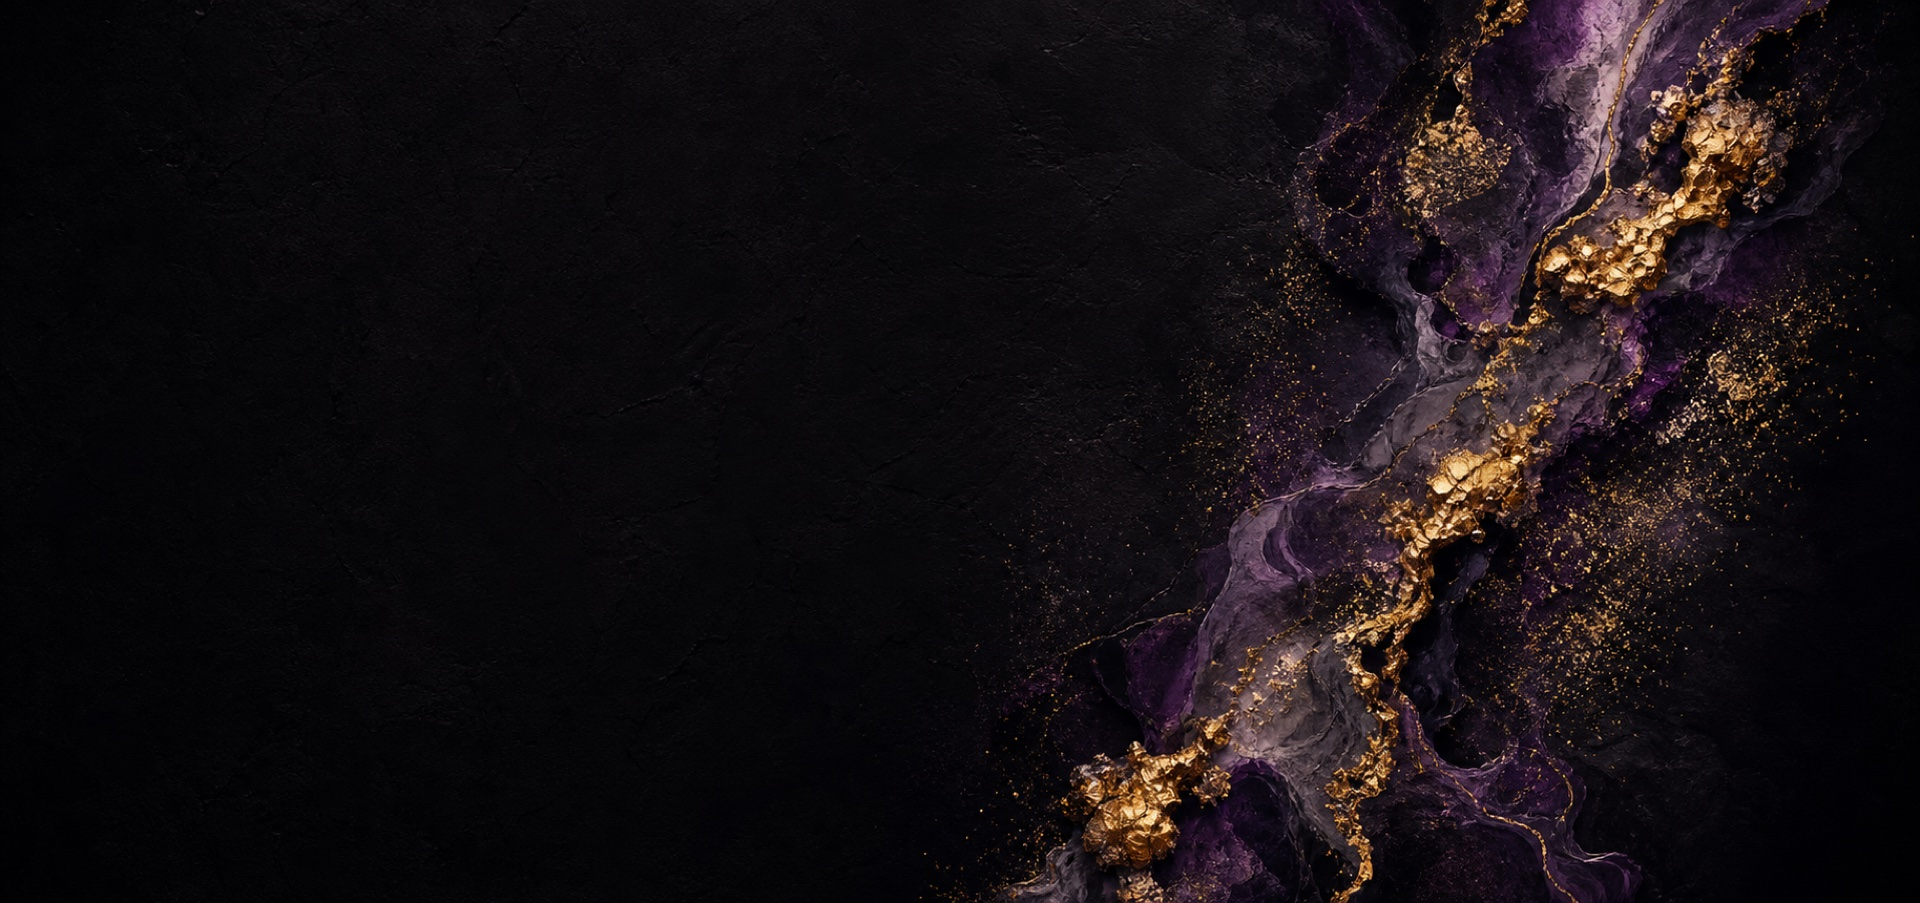
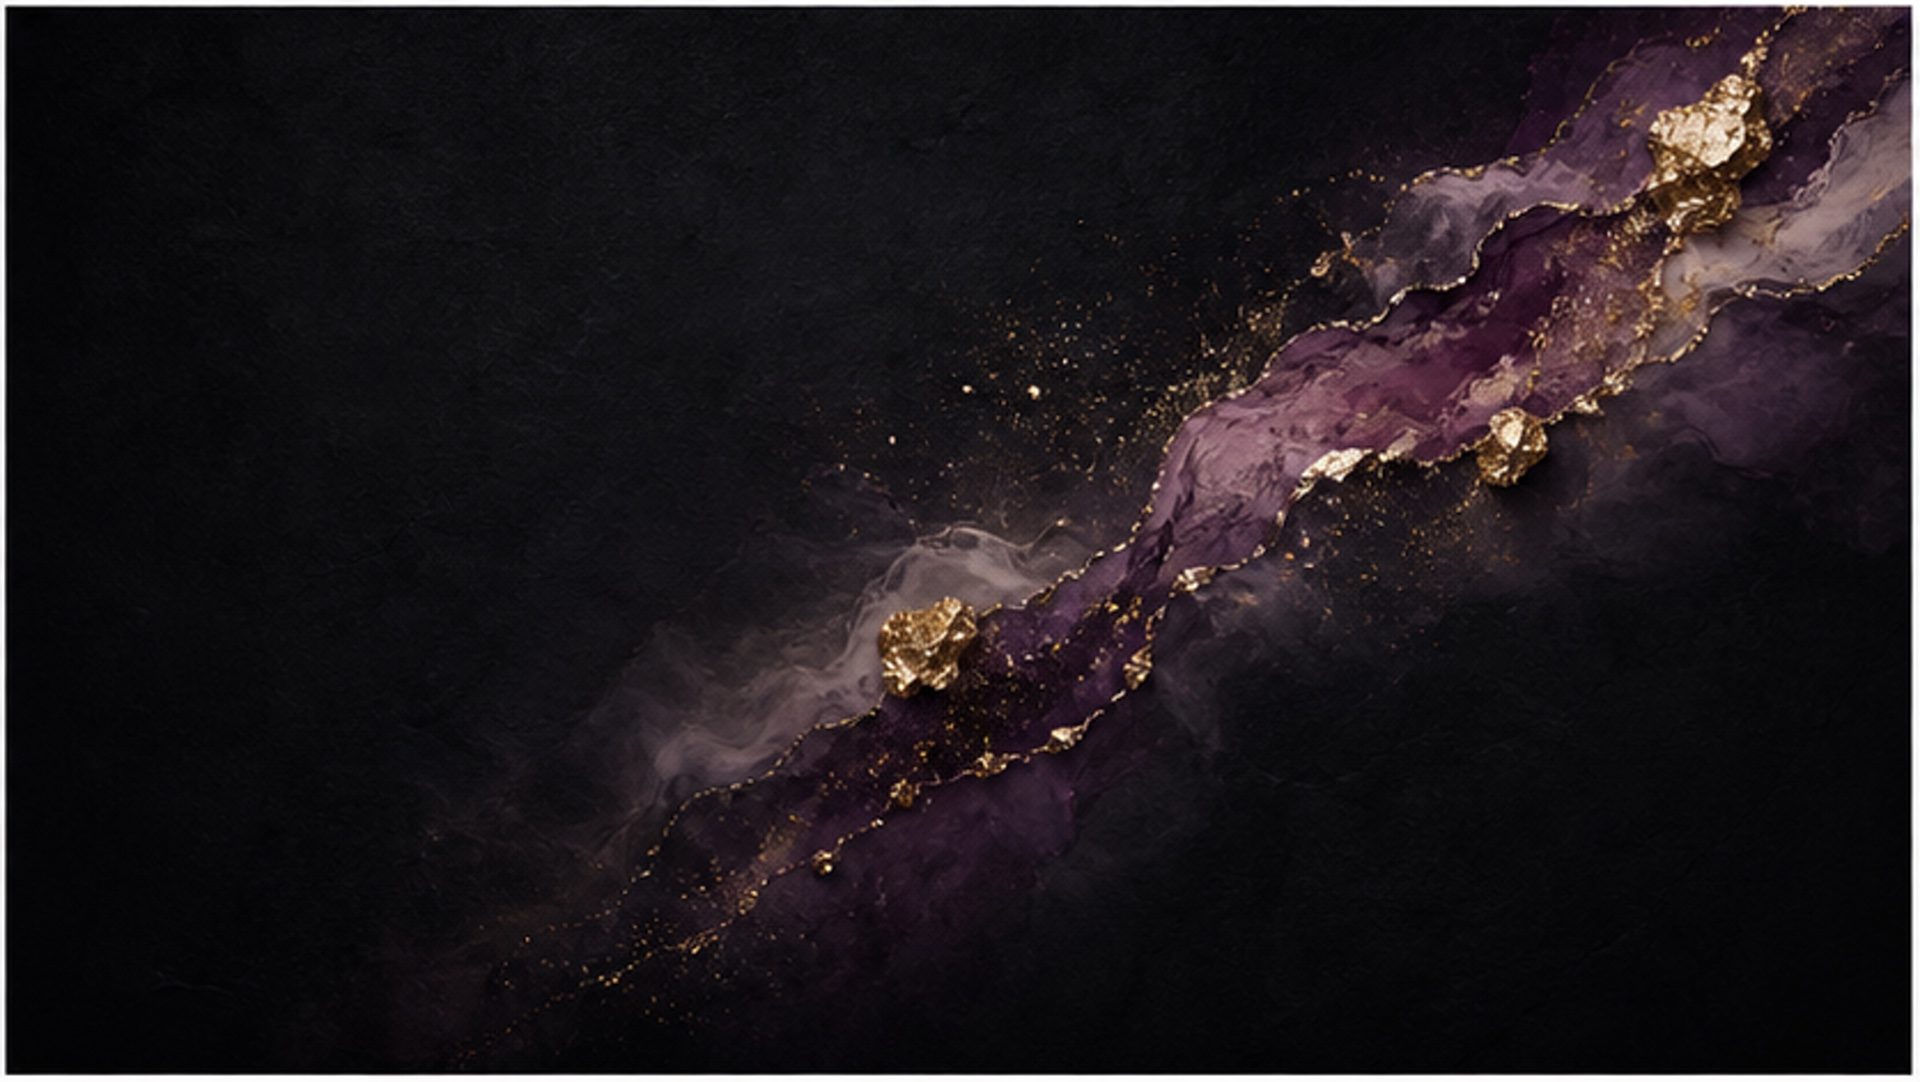
Use the bottom-left grid variant (flipped horizontally so gold sits clear of the headline text)

Changed region(s): [[0.0, 0.0, 1.0, 1.0]]

diff --git a/style.css b/style.css
@@ -271,7 +271,7 @@ ul { list-style: none; }
   inset: 0;
   z-index: -1;
   pointer-events: none;
-  background-image: url("assets/hero-marble.jpg?v=2");
+  background-image: url("assets/hero-marble.jpg?v=4");
   background-size: cover;
   background-position: center;
   background-repeat: no-repeat;
@@ -1069,7 +1069,7 @@ ul { list-style: none; }
   background:
     linear-gradient(180deg, transparent 0%, transparent 55%, var(--bg) 92%),
     radial-gradient(ellipse 65% 55% at 50% 40%, rgba(234, 179, 8, 0.28) 0%, transparent 70%),
-    url("assets/hero-marble.jpg?v=2") center / cover no-repeat,
+    url("assets/hero-marble.jpg?v=4") center / cover no-repeat,
     var(--bg);
 }
 
